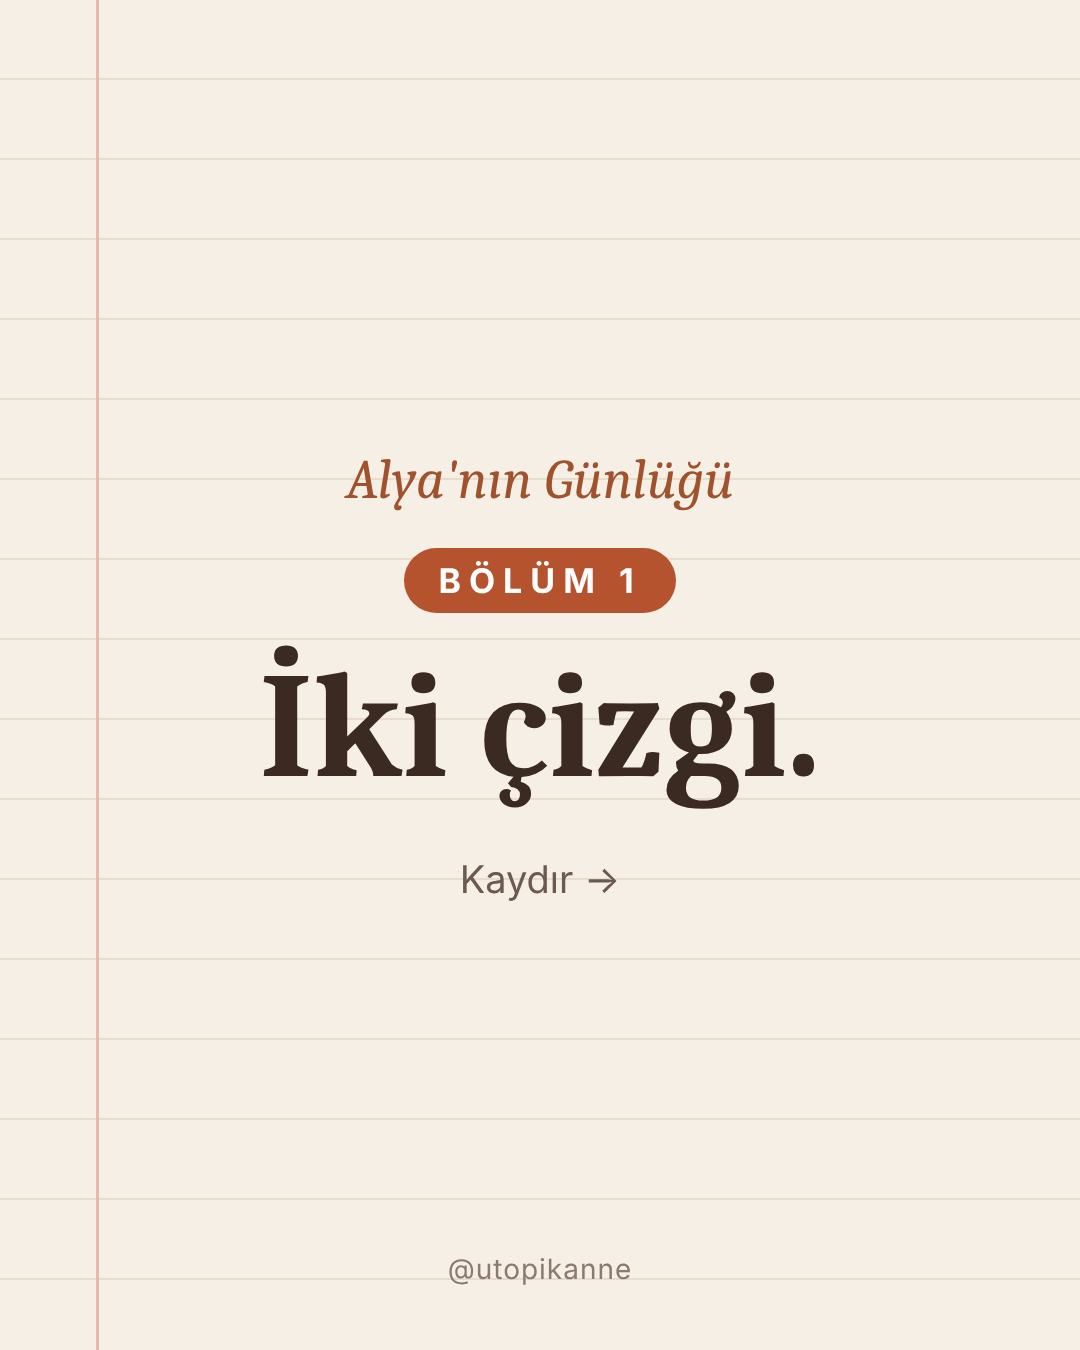
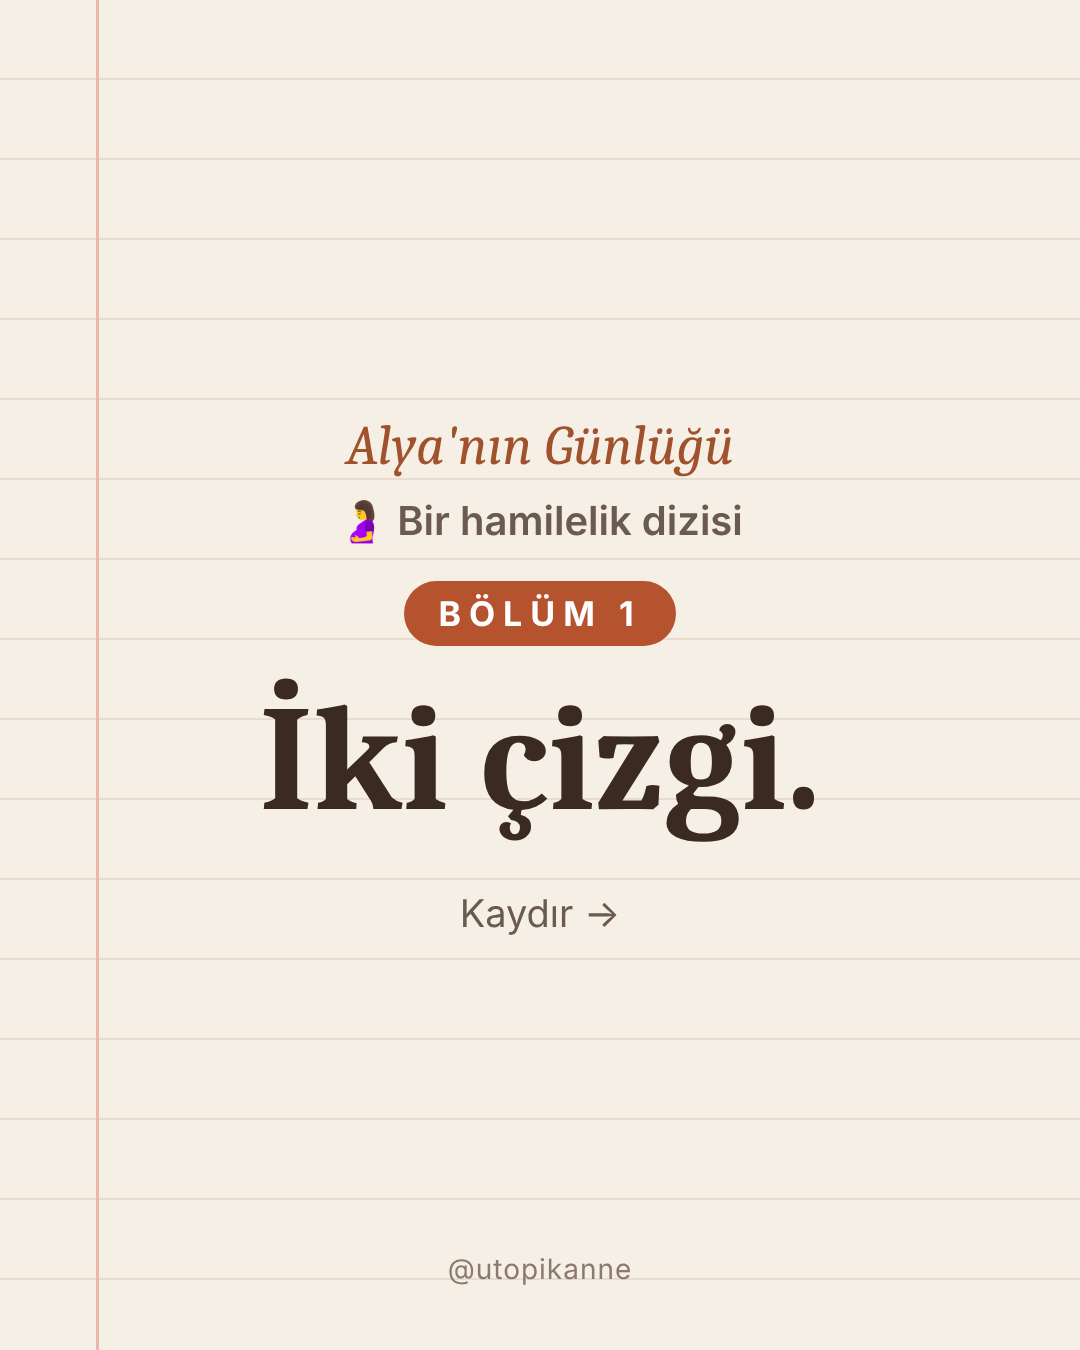
utopikanne: Alya kapağına 'Bir hamilelik dizisi'
Claude-Session: https://claude.ai/code/session_01QGX4XsF2fmNtuvzmoWMg9N

Changed region(s): [[0.2444, 0.3111, 0.7639, 0.6844]]

diff --git a/araclar/alya_sohbet.py b/araclar/alya_sohbet.py
@@ -27,12 +27,13 @@ body:before{content:"";position:absolute;left:96px;top:0;bottom:0;width:3px;back
 .kapak{position:absolute;inset:0;display:flex;flex-direction:column;justify-content:center;align-items:center;text-align:center;padding:0 140px}
 .kapak .s{font-family:"Caladea",serif;font-style:italic;font-size:56px;color:#A0522D}
 .kapak .b{font-size:34px;font-weight:700;letter-spacing:8px;color:#fff;background:#B5532E;padding:12px 34px;border-radius:40px;margin:36px 0}
+.kapak .t{font-size:40px;font-weight:600;color:#6B5A50;margin-top:18px}
 .kapak h1{font-family:"Caladea",serif;font-size:150px;line-height:1.05;color:#3B2A22}
 .kapak .k{font-size:38px;color:#6B5A50;margin-top:50px}"""
 def sayfa(govde): return f'<!doctype html><html lang="tr"><head><meta charset="utf-8"><style>{CSS}</style></head><body>{govde}<div class="alt">@utopikanne</div></body></html>'
 pages = []
 k = d["kapak"]
-pages.append(sayfa(f'<div class="kapak"><div class="s">Alya\'nın Günlüğü</div><div class="b">BÖLÜM {d["bolum"]}</div><h1>{e(k["baslik"])}</h1><div class="k">{e(k.get("alt","Kaydır →"))}</div></div>'))
+pages.append(sayfa(f'<div class="kapak"><div class="s">Alya\'nın Günlüğü</div><div class="t">{e(k.get("tur","🤰 Bir hamilelik dizisi"))}</div><div class="b">BÖLÜM {d["bolum"]}</div><h1>{e(k["baslik"])}</h1><div class="k">{e(k.get("alt","Kaydır →"))}</div></div>'))
 for s in d["sayfalar"]:
     g = f'<div class="ust"><div class="seri">Alya\'nın Günlüğü</div><div class="zaman">{e(s["zaman"])}</div></div>'
     if s.get("gunluk"): g += f'<div class="gunluk">{e(s["gunluk"])}</div>'
